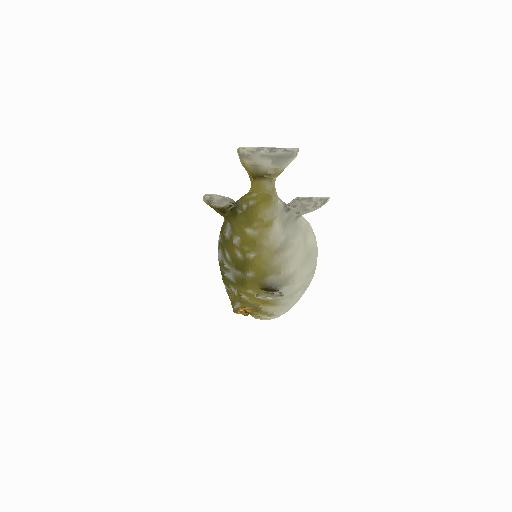
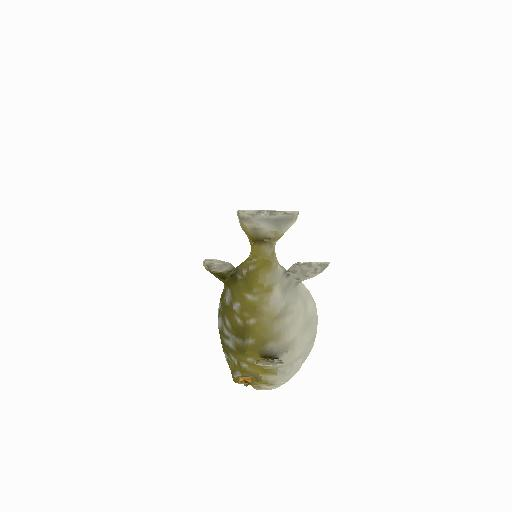
Add files via upload

Changed region(s): [[0.375, 0.2812, 0.6562, 0.7812]]

diff --git a/demo.py b/demo.py
@@ -6,7 +6,7 @@ from render_object import render_object
 # Load file
 data = np.load('hw2.npy', allow_pickle=True).item()
 
-# Exctract data to vectors
+# Extract data to vectors
 v_pos = data['v_pos']
 v_clr = data['v_clr']
 t_pos_idx = data['t_pos_idx']
@@ -23,30 +23,30 @@ rot_axis_0 = data['rot_axis_0']
 t_0 = data['t_0']
 t_1 = data['t_1']
 
-# Initialize Affine Transforms
+# Initialize three Transform instances
 transform1 = Transform()
 transform2 = Transform()
 transform3 = Transform()
 
 # Capture initial image
 img0 = render_object(v_pos, v_clr, t_pos_idx, plane_h, plane_w, res_h, res_w, focal, eye, up, target)
-
-# Rotate and capture first image
+                     
+# Rotate points and capture the first image
 transform1.rotate(theta_0, rot_axis_0)
 v_pos1 = transform1.transform_pts(v_pos)
 img1 = render_object(v_pos1, v_clr, t_pos_idx, plane_h, plane_w, res_h, res_w, focal, eye, up, target)
 
-# Translate and capture second image
+# Translate points and capture the second image
 transform2.translate(t_0)
 v_pos2 = transform2.transform_pts(v_pos1)
-img2 = render_object(v_pos1, v_clr, t_pos_idx, plane_h, plane_w, res_h, res_w, focal, eye, up, target)
+img2 = render_object(v_pos2, v_clr, t_pos_idx, plane_h, plane_w, res_h, res_w, focal, eye, up, target)
 
-# Translate and capture third image
+# Translate points and capture the third image
 transform3.translate(t_1)
 v_pos3 = transform3.transform_pts(v_pos2)
 img3 = render_object(v_pos3, v_clr, t_pos_idx, plane_h, plane_w, res_h, res_w, focal, eye, up, target)
 
-# Save results
+# Save results locally with .jpg extension
 plt.imsave('result0.jpg', img0)
 plt.imsave('result1.jpg', img1)
 plt.imsave('result2.jpg', img2)

diff --git a/rasterize.py b/rasterize.py
@@ -11,10 +11,15 @@ def rasterize(pts_2d: np.ndarray, plane_w: int, plane_h: int, res_w: int, res_h:
 #  Output:
 #    pts_rast: Nx2 np array of the points with pixel coordinates
 
-    # Handle exception of points outside of plane
+    # Remove any points outside of the camera plane
     if np.any((pts_2d[0] < -plane_w/2) | (pts_2d[0] > plane_w/2)) or np.any((pts_2d[1] < -plane_h/2) | (pts_2d[1] > plane_h/2)):
-        print("Invalid points, out of plane")
-        return None
+        print("Some points were out of the camera plane")
+        x_mask = np.logical_and(pts_2d[0] >= -plane_w/2, pts_2d[0] <= plane_w/2)
+        y_mask = np.logical_and(pts_2d[1] >= -plane_h/2, pts_2d[1] <= plane_h/2)
+        final_mask = np.logical_and(x_mask, y_mask)
+        print(pts_2d.shape)
+        pts_2d = pts_2d[:, final_mask]
+        print(pts_2d.shape)
     
     # Calculate rasterization ratio and offset
     ratio = np.array([[(res_w - 1) / plane_w], [(res_h - 1) / plane_h]])

diff --git a/transform.py b/transform.py
@@ -42,9 +42,15 @@ class Transform:
     #  Output:
     #    transformed_pts: the points after applying the transformation as an Nx3 np array
     
-        # Turn to homogenus coordinates by adding a row of ones to the points.
+        # Turn to homogeneous coordinates by adding a row of ones to the points.
         ones_row = np.ones((1, pts.shape[1]))
         pts_homo = np.vstack([pts, ones_row])
         # Transform the specified points according to our current matrix and return the result.
         tranformed_pts = self.mat @ pts_homo
         return tranformed_pts[:3, :]
+
+if __name__ == "__main__":
+    trans = Transform()
+    trans.translate(np.array([0,0,1]))
+    pts = np.array([[0, 0, 0, 0, 0], [0, 0, 0, 0, 0], [0, 0, 0, 0, 0]])
+    print(trans.transform_pts(pts))

diff --git a/render_object.py b/render_object.py
@@ -30,5 +30,5 @@ def render_object(v_pos, v_clr, t_pos_idx, plane_h, plane_w, res_h, res_w, focal
     # Convert the plane to image pixels
     vertices = rasterize(pts_2d, plane_w, plane_h, res_w, res_h).T
     
-    # Render the image with Gouraud shadings
+    # Render the image with Gouraud shading
     return render_img(t_pos_idx, vertices, v_clr, depth, 'g')
